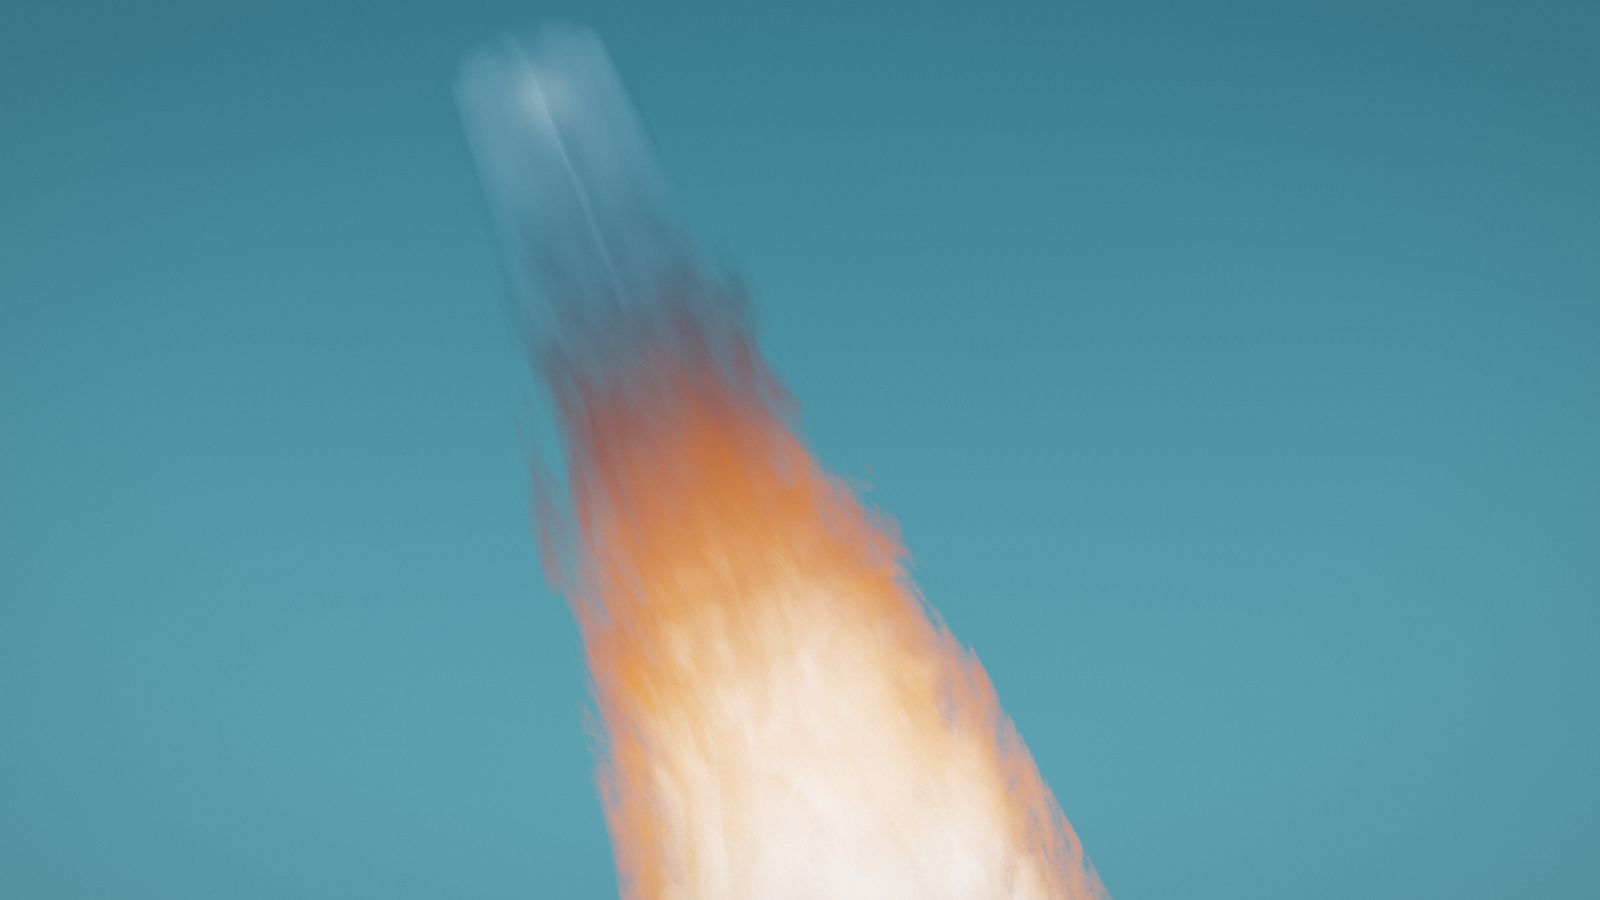
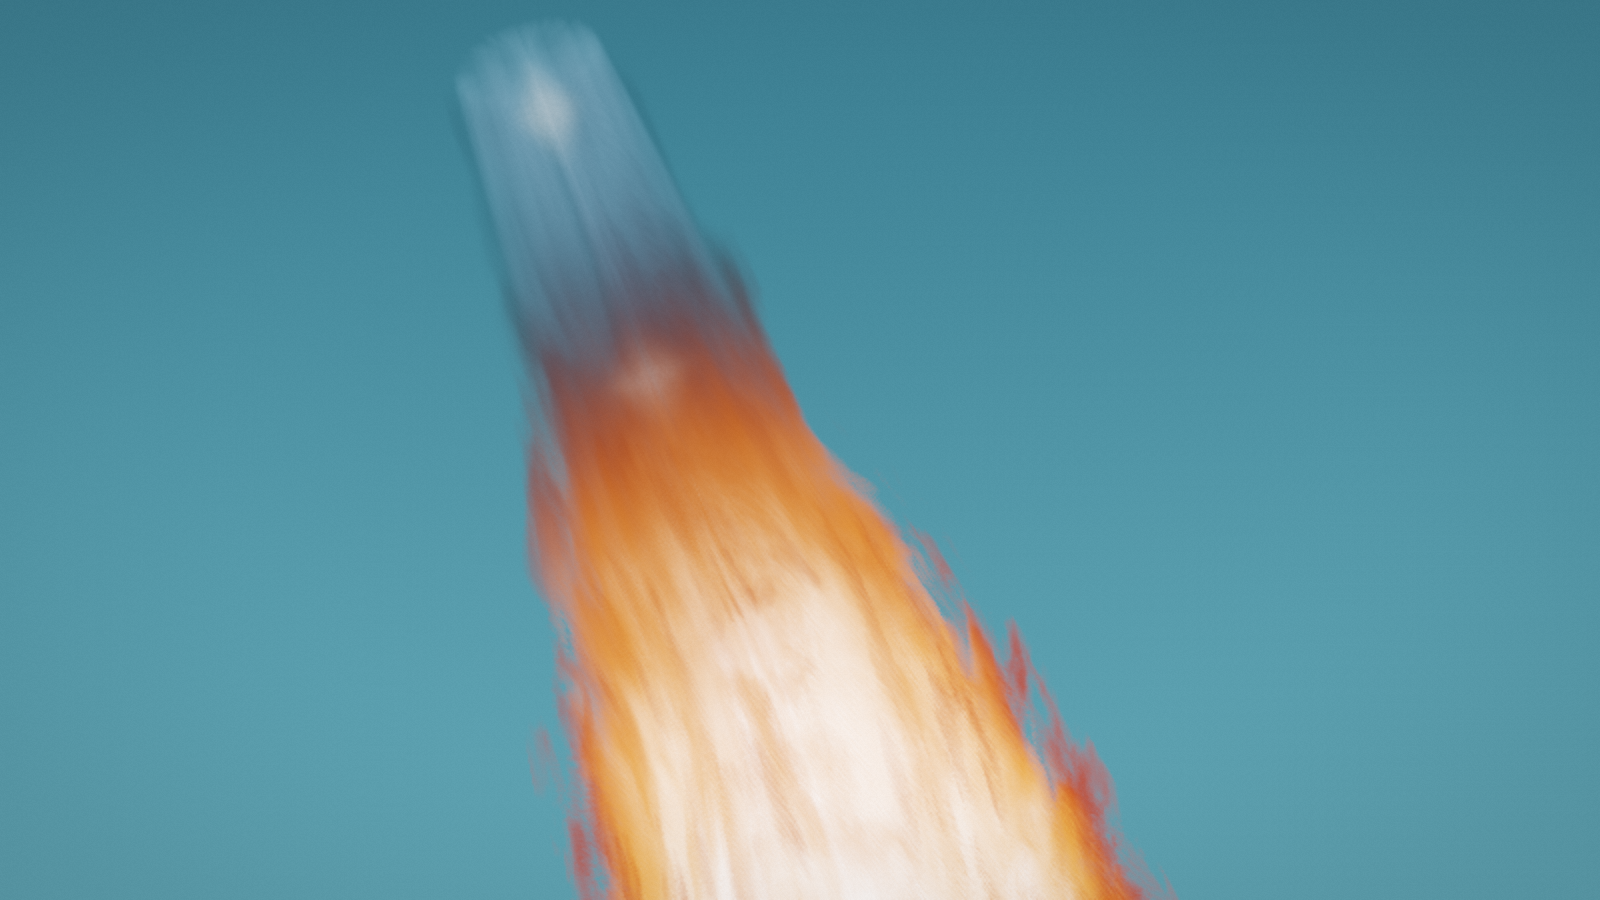
Rework thruster plume noise around fibres and shock diamonds
Further launch photos show the exhaust texture is long translucent fibres
stretched along the flow rather than billows, with a herringbone fringe,
discrete engine jets at the exit, and periodic shock diamonds. The fire
pass now builds density and heat from a ridged fibre field (one volumetric
atlas lookup plus two sheared cylindrical detail lookups), keeps billow
noise only for the soft body, adds diamonds in the transition zone, and
widens the march bounds so the hairy fringe is no longer clipped.

Claude-Session: https://claude.ai/code/session_01CUFYF8LcYr8WwrPX66s1Gy

Changed region(s): [[0.3125, 0.28, 0.75, 1.0], [0.3125, 0.0933, 0.375, 0.1867]]

diff --git a/apps/docs/lib/examples-source.generated.ts b/apps/docs/lib/examples-source.generated.ts
@@ -307,7 +307,7 @@ export const exampleSources = {
     {
       "name": "fire.wgsl",
       "lang": "wgsl",
-      "code": "import { noise3 } from \"./thruster-common.wgsl\";\n\n// Raymarched exhaust plume. Runs at half resolution into an HDR target.\n//\n// Reference analysis (crops of a rocket-stage photo, sRGB 8-bit means):\n//   sky            (82, 135, 149)  teal, darker toward the top\n//   exit gas       translucent silver-blue cylinder with longitudinal streaks\n//   afterburn body (203, 110, 79)  orange, feathered edge eroded by wisps\n//   plume core     (248, 212, 205) pink-white, widens to ~60% of the plume\n//   edge halo      (169, 113, 80)  fades into the sky through grey-pink\n// The plume brightens DOWNSTREAM (fuel-rich exhaust meets air), so heat ramps\n// up with distance from the nozzle instead of decaying.\n//\n// The plume is a cone volume (nozzle radius r0, linear spread). Every march\n// step does: 2 atlas fetches (3D noise), 2 atlas fetches (domain warp) and one\n// detail fetch — no runtime octave loops. Ray/cone intersection bounds the\n// march to the volume, and the loop exits early once transmittance is spent.\n\nstruct Params {\n  resolution: vec2f,\n  time: f32,\n  motion: f32,\n}\n\n@group(0) @binding(0) var<uniform> params: Params;\n@group(0) @binding(1) var atlas: texture_2d<f32>;\n@group(0) @binding(2) var detail: texture_2d<f32>;\n@group(0) @binding(3) var atlasSamp: sampler;\n@group(0) @binding(4) var detailSamp: sampler;\n\nconst PI: f32 = 3.14159265359;\nconst STEPS: i32 = 40;\n\n// Camera (eye at origin looking down -Z).\nconst FOV_TAN: f32 = 0.4452; // tan(24°)\n\n// Plume geometry in world units.\nconst NOZZLE: vec3f = vec3f(-1.05, 1.5, -3.9);\nconst AXIS: vec3f = vec3f(0.3707, -0.9268, 0.0556); // normalized\nconst R0: f32 = 0.30;        // exit radius\nconst SPREAD: f32 = 0.095;   // radius growth per unit length\nconst LENGTH: f32 = 8.0;\nconst BOUND_SCALE: f32 = 1.35; // march bounds are wider than the nominal cone\n\nfn plumeFrame() -> mat3x3f {\n  // Orthonormal basis (U, V, AXIS) for cylindrical coordinates.\n  let u = normalize(cross(AXIS, vec3f(0.0, 0.0, 1.0)));\n  let v = cross(AXIS, u);\n  return mat3x3f(u, v, AXIS);\n}\n\nfn sky(dir: vec3f) -> vec3f {\n  // Teal sky measured from the reference: darker toward the top.\n  let t = smoothstep(-0.55, 0.45, -dir.y);\n  let top = vec3f(0.045, 0.135, 0.175);\n  let bottom = vec3f(0.092, 0.235, 0.290);\n  return mix(top, bottom, t);\n}\n\n// Emission per unit opacity as a function of energy `e`.\n// Reference colors (sRGB → linear): orange body (0.60,0.16,0.08),\n// salmon core (0.94,0.66,0.61), highlights close to white with a pink cast.\nfn fireRamp(e: f32) -> vec3f {\n  let c0 = vec3f(0.42, 0.045, 0.008);   // deep red fringe\n  let c1 = vec3f(1.15, 0.28, 0.055);    // orange\n  let c2 = vec3f(1.75, 0.92, 0.62);     // salmon\n  let c3 = vec3f(2.9, 2.5, 2.4);        // pink-white core (HDR)\n  var c = mix(c0, c1, smoothstep(0.0, 0.3, e));\n  c = mix(c, c2, smoothstep(0.3, 0.7, e));\n  c = mix(c, c3, smoothstep(0.68, 1.15, e));\n  return c;\n}\n\n// Ray interval inside the (widened) bounding cone, clipped to 0 <= s <= LENGTH.\nfn coneInterval(o: vec3f, d: vec3f) -> vec2f {\n  let k = SPREAD * BOUND_SCALE;\n  let r0 = R0 * BOUND_SCALE;\n  let apex = NOZZLE - AXIS * (r0 / k);\n  let cos2 = 1.0 / (1.0 + k * k);\n  let w = o - apex;\n  let dd = dot(d, AXIS);\n  let wD = dot(w, AXIS);\n  let a = dd * dd - cos2;\n  let b = 2.0 * (dd * wD - dot(d, w) * cos2);\n  let c = wD * wD - dot(w, w) * cos2;\n  let disc = b * b - 4.0 * a * c;\n  if (disc < 0.0 || a >= 0.0) { return vec2f(1.0, 0.0); }\n  let sq = sqrt(disc);\n  var t0 = (-b + sq) / (2.0 * a);\n  var t1 = (-b - sq) / (2.0 * a);\n  if (t0 > t1) { let tmp = t0; t0 = t1; t1 = tmp; }\n  // Reject the mirror nappe.\n  let mid = o + d * (0.5 * (t0 + t1));\n  if (dot(mid - apex, AXIS) < 0.0) { return vec2f(1.0, 0.0); }\n  // Slab 0 <= s <= LENGTH along the axis (s measured from the nozzle).\n  let sA = dot(o - NOZZLE, AXIS);\n  if (abs(dd) > 1e-4) {\n    var ts0 = (0.0 - sA) / dd;\n    var ts1 = (LENGTH - sA) / dd;\n    if (ts0 > ts1) { let tmp = ts0; ts0 = ts1; ts1 = tmp; }\n    t0 = max(t0, ts0);\n    t1 = min(t1, ts1);\n  } else if (sA < 0.0 || sA > LENGTH) {\n    return vec2f(1.0, 0.0);\n  }\n  t0 = max(t0, 0.0);\n  return vec2f(t0, t1);\n}\n\nfn ign(p: vec2f) -> f32 {\n  // Interleaved gradient noise: stable per-pixel jitter for the march start.\n  return fract(52.9829189 * fract(0.06711056 * p.x + 0.00583715 * p.y));\n}\n\n@fragment fn fs_main(@builtin(position) position: vec4f) -> @location(0) vec4f {\n  let res = params.resolution;\n  let ndc = (position.xy / res) * 2.0 - 1.0;\n  let aspect = res.x / res.y;\n  let dir = normalize(vec3f(ndc.x * aspect * FOV_TAN, -ndc.y * FOV_TAN, -1.0));\n  let origin = vec3f(0.0);\n  let time = params.time * params.motion;\n\n  let background = sky(dir);\n  let interval = coneInterval(origin, dir);\n  if (interval.y <= interval.x) {\n    return vec4f(background, 1.0);\n  }\n\n  let frame = plumeFrame();\n  let dt = (interval.y - interval.x) / f32(STEPS);\n  var t = interval.x + dt * ign(position.xy);\n  var color = vec3f(0.0);\n  var transmittance = 1.0;\n  var haze = 0.0; // accumulated near-nozzle gas, used for a heat-shimmer tint\n\n  for (var i = 0; i < STEPS; i++) {\n    let p = origin + dir * t;\n    let rel = p - NOZZLE;\n    let s = dot(rel, AXIS);\n    let q = rel - AXIS * s;\n    let qx = dot(q, frame[0]);\n    let qy = dot(q, frame[1]);\n    let radius = R0 + SPREAD * s;\n    let rad = length(q) / radius;\n\n    // Downstream regimes: `shock` is the translucent exit region, `burn` the\n    // afterburning mixing region further down.\n    let shock = 1.0 - smoothstep(0.0, 2.4, s);\n    let burn = smoothstep(0.4, 3.2, s);\n    let heat = smoothstep(1.0, 3.8, s);\n\n    // Domain warp from the low-frequency channel, then two 3D lookups at\n    // different frequencies. Coordinates scroll along the axis so the\n    // turbulence flows downstream; the second lookup scrolls faster so the\n    // pattern evolves instead of sliding rigidly.\n    let flow = vec3f(0.0, 0.0, -time * 1.3);\n    let local = vec3f(qx, qy, s * 0.7);\n    let warpN = noise3(atlas, atlasSamp, local * 0.4 + flow * 0.55 + vec3f(0.31, 0.77, 0.0));\n    let warp = (vec2f(warpN.a, warpN.r) - 0.5) * (0.5 + 1.0 * burn) * radius;\n    let warped = vec3f((qx + warp.x) * 1.4, (qy + warp.y) * 1.4, s * 0.75);\n    let n = noise3(atlas, atlasSamp, warped + flow);\n    let n2 = noise3(atlas, atlasSamp, warped * 3.1 + flow * 1.9 + vec3f(0.5, 0.2, 0.37));\n\n    // Fine grain: cylindrical mapping stretched along the flow gives streaks.\n    let theta = atan2(qy, qx) / (2.0 * PI);\n    let detScaleS = mix(0.3, 0.12, shock);\n    let det = textureSampleLevel(detail, detailSamp, vec2f(theta * 3.0 + warp.x * 0.4, s * detScaleS - time * 1.1), 0.0);\n    let streak = smoothstep(0.3, 0.8, det.r);\n\n    let turb = (n.r - 0.5) * 2.0 + (n2.r - 0.5) * 1.0 + (n.b - 0.5) * 0.6 * smoothstep(0.5, 1.1, rad);\n    let erosion = mix(0.25, 0.9, burn);\n    let shell = 1.0 - rad + turb * erosion + (det.r - 0.5) * (0.1 + 0.4 * burn);\n    var density = smoothstep(0.0, 0.1, shell);\n    density *= 0.35 + 1.0 * n.g * (0.6 + 0.8 * n2.g);\n    density *= smoothstep(0.0, 0.2, s) * (1.0 - 0.4 * smoothstep(5.5, LENGTH, s));\n\n    // Energy: heat builds up in the afterburn region, hotter toward the core,\n    // and the lumps carry the heat so the structure shows in the color too.\n    let core = 1.0 - rad * rad * 0.45;\n    var energy = burn * core * (0.55 + 0.6 * n.g) * (0.8 + 0.4 * n2.g) * (0.9 + 0.2 * det.r);\n    energy *= 0.7 + 0.55 * heat;\n    energy *= 1.0 - 0.2 * smoothstep(5.0, LENGTH, s);\n\n    // Shock region: faint silver-blue gas with longitudinal streaks and a\n    // couple of soft diamond bands on the axis.\n    let bands = pow(max(0.0, sin(s * 5.5 + 0.7)), 5.0) * smoothstep(0.55, 0.05, rad) * 0.6;\n    let hazeColor = (vec3f(0.26, 0.38, 0.52) * (0.55 + 0.5 * streak) + vec3f(1.2, 1.1, 1.0) * bands) * shock;\n    // Crisp cylinder silhouette: barely any erosion, so the limb brightens\n    // where the ray path through the gas is longest.\n    let hazeDensity = smoothstep(0.0, 0.08, 1.0 - rad + (det.r - 0.5) * 0.08 + (n.r - 0.5) * 0.06) * (0.5 + 0.5 * streak) * 0.65 * shock;\n\n    let sigma = density * (0.4 + 4.5 * burn) + hazeDensity * 0.9;\n    let alpha = 1.0 - exp(-sigma * dt);\n    let perOpacity = (fireRamp(energy) * density * (0.4 + 4.5 * burn) * burn + hazeColor * hazeDensity * 0.9) / max(sigma, 1e-4);\n    color += transmittance * perOpacity * alpha;\n    haze += transmittance * hazeDensity * dt;\n    transmittance *= 1.0 - alpha;\n    if (transmittance < 0.012) { break; }\n    t += dt;\n  }\n\n  // The near-nozzle gas is mostly transparent: let a slightly cooled, brighter\n  // sky show through it so the exit reads as hot glass rather than smoke.\n  let shimmer = clamp(haze * 1.6, 0.0, 1.0);\n  let seenSky = mix(background, background * vec3f(1.15, 1.2, 1.25) + vec3f(0.03, 0.05, 0.06), shimmer);\n  let result = color + transmittance * seenSky;\n  return vec4f(result, 1.0);\n}\n"
+      "code": "import { noise3 } from \"./thruster-common.wgsl\";\n\n// Raymarched exhaust plume. Runs at half resolution into an HDR target.\n//\n// Reference analysis (crops of a rocket-stage photo, sRGB 8-bit means):\n//   sky            (82, 135, 149)  teal, darker toward the top\n//   exit gas       translucent silver-blue cylinder with longitudinal streaks\n//   afterburn body (203, 110, 79)  orange, feathered edge eroded by wisps\n//   plume core     (248, 212, 205) pink-white, widens to ~60% of the plume\n//   edge halo      (169, 113, 80)  fades into the sky through grey-pink\n// The plume brightens DOWNSTREAM (fuel-rich exhaust meets air), so heat ramps\n// up with distance from the nozzle instead of decaying.\n//\n// Noise style (from further launch photos): the dominant texture is long,\n// translucent fibres stretched ~10:1 along the flow at several scales, not\n// cauliflower billows; the fringe fans outward like a herringbone; the exit\n// shows discrete parallel engine jets; and periodic shock diamonds sit on the\n// axis. Billow noise only shapes the soft underlying body.\n//\n// The plume is a cone volume (nozzle radius r0, linear spread). Every march\n// step does: 6 atlas fetches (warp, body, fibres — 2 slices each) and two\n// detail fetches — no runtime octave loops. Ray/cone intersection bounds the\n// march to the volume, and the loop exits early once transmittance is spent.\n\nstruct Params {\n  resolution: vec2f,\n  time: f32,\n  motion: f32,\n}\n\n@group(0) @binding(0) var<uniform> params: Params;\n@group(0) @binding(1) var atlas: texture_2d<f32>;\n@group(0) @binding(2) var detail: texture_2d<f32>;\n@group(0) @binding(3) var atlasSamp: sampler;\n@group(0) @binding(4) var detailSamp: sampler;\n\nconst PI: f32 = 3.14159265359;\nconst STEPS: i32 = 48;\n\n// Camera (eye at origin looking down -Z).\nconst FOV_TAN: f32 = 0.4452; // tan(24°)\n\n// Plume geometry in world units.\nconst NOZZLE: vec3f = vec3f(-1.05, 1.5, -3.9);\nconst AXIS: vec3f = vec3f(0.3707, -0.9268, 0.0556); // normalized\nconst R0: f32 = 0.30;        // exit radius\nconst SPREAD: f32 = 0.095;   // radius growth per unit length\nconst LENGTH: f32 = 8.0;\nconst BOUND_SCALE: f32 = 1.7;  // march bounds are wider than the nominal cone\n\nfn plumeFrame() -> mat3x3f {\n  // Orthonormal basis (U, V, AXIS) for cylindrical coordinates.\n  let u = normalize(cross(AXIS, vec3f(0.0, 0.0, 1.0)));\n  let v = cross(AXIS, u);\n  return mat3x3f(u, v, AXIS);\n}\n\nfn sky(dir: vec3f) -> vec3f {\n  // Teal sky measured from the reference: darker toward the top.\n  let t = smoothstep(-0.55, 0.45, -dir.y);\n  let top = vec3f(0.045, 0.135, 0.175);\n  let bottom = vec3f(0.092, 0.235, 0.290);\n  return mix(top, bottom, t);\n}\n\n// Emission per unit opacity as a function of energy `e`.\n// Reference colors (sRGB → linear): orange body (0.60,0.16,0.08),\n// salmon core (0.94,0.66,0.61), highlights close to white with a pink cast.\nfn fireRamp(e: f32) -> vec3f {\n  let c0 = vec3f(0.42, 0.045, 0.008);   // deep red fringe\n  let c1 = vec3f(1.15, 0.28, 0.055);    // orange\n  let c2 = vec3f(1.75, 0.92, 0.62);     // salmon\n  let c3 = vec3f(2.9, 2.5, 2.4);        // pink-white core (HDR)\n  var c = mix(c0, c1, smoothstep(0.0, 0.3, e));\n  c = mix(c, c2, smoothstep(0.3, 0.7, e));\n  c = mix(c, c3, smoothstep(0.68, 1.15, e));\n  return c;\n}\n\n// Ray interval inside the (widened) bounding cone, clipped to 0 <= s <= LENGTH.\nfn coneInterval(o: vec3f, d: vec3f) -> vec2f {\n  let k = SPREAD * BOUND_SCALE;\n  let r0 = R0 * BOUND_SCALE;\n  let apex = NOZZLE - AXIS * (r0 / k);\n  let cos2 = 1.0 / (1.0 + k * k);\n  let w = o - apex;\n  let dd = dot(d, AXIS);\n  let wD = dot(w, AXIS);\n  let a = dd * dd - cos2;\n  let b = 2.0 * (dd * wD - dot(d, w) * cos2);\n  let c = wD * wD - dot(w, w) * cos2;\n  let disc = b * b - 4.0 * a * c;\n  if (disc < 0.0 || a >= 0.0) { return vec2f(1.0, 0.0); }\n  let sq = sqrt(disc);\n  var t0 = (-b + sq) / (2.0 * a);\n  var t1 = (-b - sq) / (2.0 * a);\n  if (t0 > t1) { let tmp = t0; t0 = t1; t1 = tmp; }\n  // Reject the mirror nappe.\n  let mid = o + d * (0.5 * (t0 + t1));\n  if (dot(mid - apex, AXIS) < 0.0) { return vec2f(1.0, 0.0); }\n  // Slab 0 <= s <= LENGTH along the axis (s measured from the nozzle).\n  let sA = dot(o - NOZZLE, AXIS);\n  if (abs(dd) > 1e-4) {\n    var ts0 = (0.0 - sA) / dd;\n    var ts1 = (LENGTH - sA) / dd;\n    if (ts0 > ts1) { let tmp = ts0; ts0 = ts1; ts1 = tmp; }\n    t0 = max(t0, ts0);\n    t1 = min(t1, ts1);\n  } else if (sA < 0.0 || sA > LENGTH) {\n    return vec2f(1.0, 0.0);\n  }\n  t0 = max(t0, 0.0);\n  return vec2f(t0, t1);\n}\n\nfn ign(p: vec2f) -> f32 {\n  // Interleaved gradient noise: stable per-pixel jitter for the march start.\n  return fract(52.9829189 * fract(0.06711056 * p.x + 0.00583715 * p.y));\n}\n\n@fragment fn fs_main(@builtin(position) position: vec4f) -> @location(0) vec4f {\n  let res = params.resolution;\n  let ndc = (position.xy / res) * 2.0 - 1.0;\n  let aspect = res.x / res.y;\n  let dir = normalize(vec3f(ndc.x * aspect * FOV_TAN, -ndc.y * FOV_TAN, -1.0));\n  let origin = vec3f(0.0);\n  let time = params.time * params.motion;\n\n  let background = sky(dir);\n  let interval = coneInterval(origin, dir);\n  if (interval.y <= interval.x) {\n    return vec4f(background, 1.0);\n  }\n\n  let frame = plumeFrame();\n  let dt = (interval.y - interval.x) / f32(STEPS);\n  var t = interval.x + dt * ign(position.xy);\n  var color = vec3f(0.0);\n  var transmittance = 1.0;\n  var haze = 0.0; // accumulated near-nozzle gas, used for a heat-shimmer tint\n\n  for (var i = 0; i < STEPS; i++) {\n    let p = origin + dir * t;\n    let rel = p - NOZZLE;\n    let s = dot(rel, AXIS);\n    let q = rel - AXIS * s;\n    let qx = dot(q, frame[0]);\n    let qy = dot(q, frame[1]);\n    let radius = R0 + SPREAD * s;\n    let rad = length(q) / radius;\n\n    // Downstream regimes: `shock` is the translucent exit region, `burn` the\n    // afterburning mixing region further down.\n    let shock = 1.0 - smoothstep(0.0, 2.4, s);\n    let burn = smoothstep(0.4, 3.2, s);\n    let heat = smoothstep(0.6, 3.2, s);\n\n    // Soft body: domain-warped 3D fbm/billow, mildly stretched along the flow.\n    // This only sets the low-frequency silhouette and opacity.\n    let flow = vec3f(0.0, 0.0, -time * 1.3);\n    let warpN = noise3(atlas, atlasSamp, vec3f(qx, qy, s * 0.7) * 0.4 + flow * 0.55 + vec3f(0.31, 0.77, 0.0));\n    let warp = (vec2f(warpN.a, warpN.r) - 0.5) * (0.5 + 1.0 * burn) * radius;\n    let warped = vec3f((qx + warp.x) * 1.4, (qy + warp.y) * 1.4, s * 0.75);\n    let n = noise3(atlas, atlasSamp, warped + flow);\n\n    // Fibre field (the reference's dominant texture): ridged noise stretched\n    // ~10x along the flow. One volumetric lookup (atlas .b) so fibres have\n    // depth, plus a cylindrical 2D lookup (detail .g) for the fine hairs,\n    // sheared outward with radius so the fringe fans out like a herringbone.\n    let fib3 = noise3(atlas, atlasSamp, vec3f((qx + warp.x * 0.5) * 1.7, (qy + warp.y * 0.5) * 1.7, s * 0.1) + flow * 0.45 + vec3f(0.5, 0.2, 0.37)).b;\n    let theta = atan2(qy, qx) / (2.0 * PI);\n    let fibreUv = vec2f(theta * 5.0 + warp.x * 0.35, (s - rad * radius * 0.6) * 0.085 - time * 0.75);\n    let fib2 = textureSampleLevel(detail, detailSamp, fibreUv, 0.0);\n    let fib2b = textureSampleLevel(detail, detailSamp, fibreUv * vec2f(2.7, 2.1) + vec2f(0.37, 0.11), 0.0);\n    let filament = clamp(fib3 * 0.45 + fib2.g * 0.35 + fib2b.g * 0.3, 0.0, 1.0);\n    // Thin, high-contrast hairs: only the ridge tops light up.\n    let hairs = smoothstep(0.45, 0.95, filament);\n\n    // Shock diamonds: repeating bright nodes on the axis that fade downstream.\n    let phase = fract(s / 1.1 + 0.3);\n    let diamond = smoothstep(0.5, 0.05, abs(phase - 0.5) * 1.6 + rad * 0.9) * (1.0 - smoothstep(1.5, 6.5, s));\n\n    let turb = (n.r - 0.5) * 2.0;\n    let erosion = mix(0.2, 0.7, burn);\n    // Fibres both erode the shell and poke past it, which makes the edge hairy.\n    let shell = 1.0 - rad + turb * erosion + (filament - 0.45) * (0.25 + 0.6 * burn) + (fib2.r - 0.5) * 0.12;\n    var density = smoothstep(0.0, 0.1, shell);\n    density *= 0.3 + 0.5 * n.g + 1.3 * hairs;\n    density *= smoothstep(0.0, 0.2, s) * (1.0 - 0.4 * smoothstep(5.5, LENGTH, s));\n\n    // Energy: heat builds up downstream, hotter toward the core, and the\n    // fibres and diamonds carry the highlights so the structure reads in color.\n    let core = 1.0 - rad * rad * 0.45;\n    var energy = burn * core * (0.55 + 0.4 * n.g) * (0.5 + 1.0 * hairs) * (0.9 + 0.2 * fib2.r);\n    energy *= 0.72 + 0.6 * heat;\n    energy *= 1.0 - 0.2 * smoothstep(5.0, LENGTH, s);\n    energy += diamond * 0.8;\n\n    // Exit region: discrete engine jets read as sharp parallel streaks in a\n    // faint silver-blue gas, with the first diamonds glowing warm white.\n    let jets = smoothstep(0.5, 0.9, fib2.g * 0.6 + fib3 * 0.5);\n    let hazeColor = (vec3f(0.26, 0.38, 0.52) * (0.3 + 1.0 * jets) + vec3f(1.4, 1.2, 1.0) * diamond) * shock;\n    let hazeDensity = smoothstep(0.0, 0.08, 1.0 - rad + (fib2.r - 0.5) * 0.08) * (0.2 + 1.1 * jets + 0.3 * diamond) * 0.7 * shock;\n\n    let sigma = density * (0.4 + 4.5 * burn) + hazeDensity * 0.9;\n    let alpha = 1.0 - exp(-sigma * dt);\n    let perOpacity = (fireRamp(energy) * density * (0.4 + 4.5 * burn) * burn + hazeColor * hazeDensity * 0.9) / max(sigma, 1e-4);\n    color += transmittance * perOpacity * alpha;\n    haze += transmittance * hazeDensity * dt;\n    transmittance *= 1.0 - alpha;\n    if (transmittance < 0.012) { break; }\n    t += dt;\n  }\n\n  // The near-nozzle gas is mostly transparent: let a slightly cooled, brighter\n  // sky show through it so the exit reads as hot glass rather than smoke.\n  let shimmer = clamp(haze * 1.6, 0.0, 1.0);\n  let seenSky = mix(background, background * vec3f(1.15, 1.2, 1.25) + vec3f(0.03, 0.05, 0.06), shimmer);\n  let result = color + transmittance * seenSky;\n  return vec4f(result, 1.0);\n}\n"
     },
     {
       "name": "thruster-common.wgsl",
